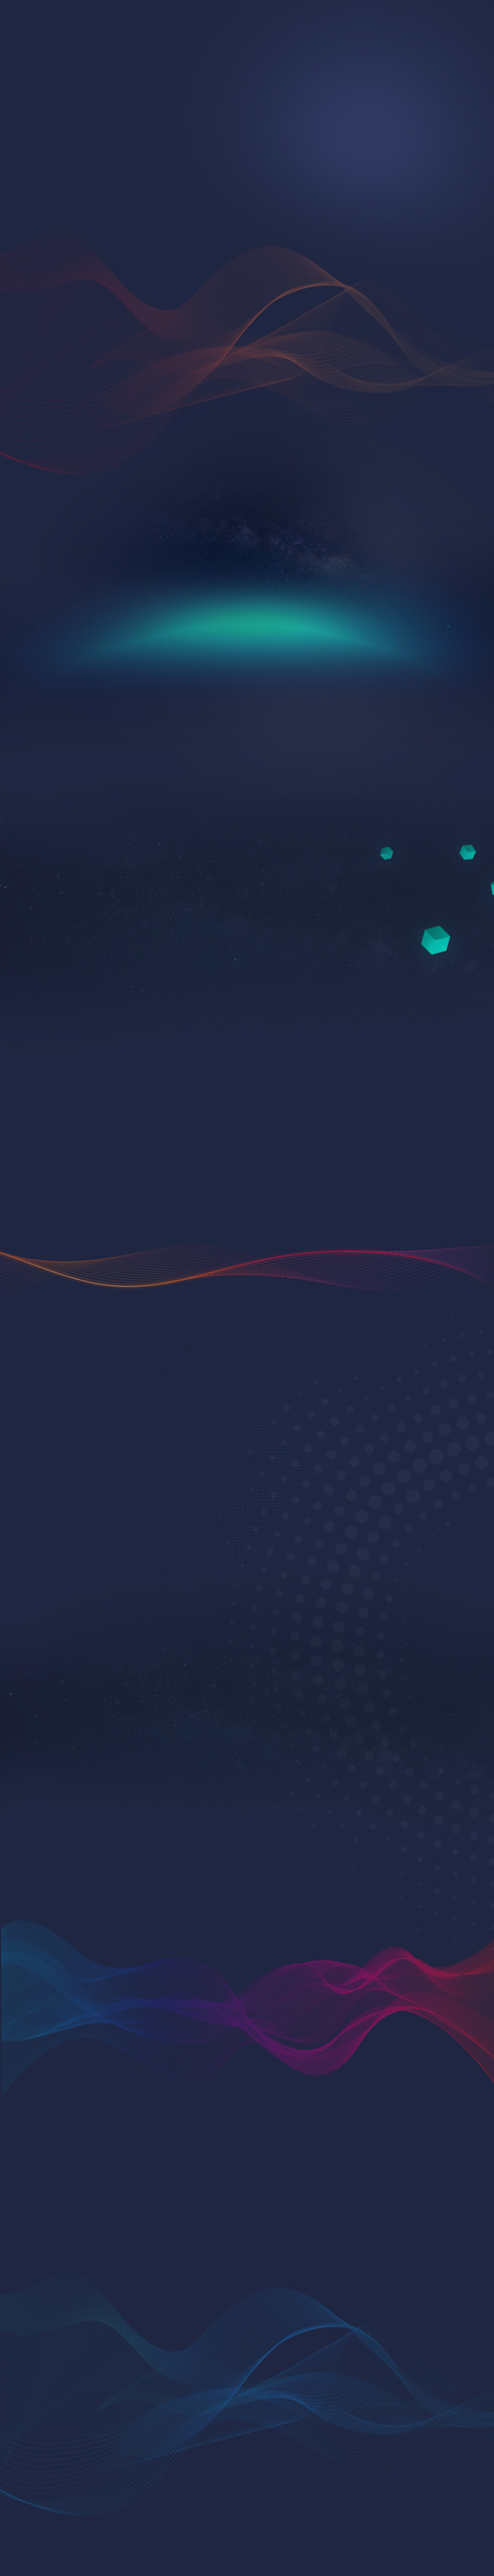
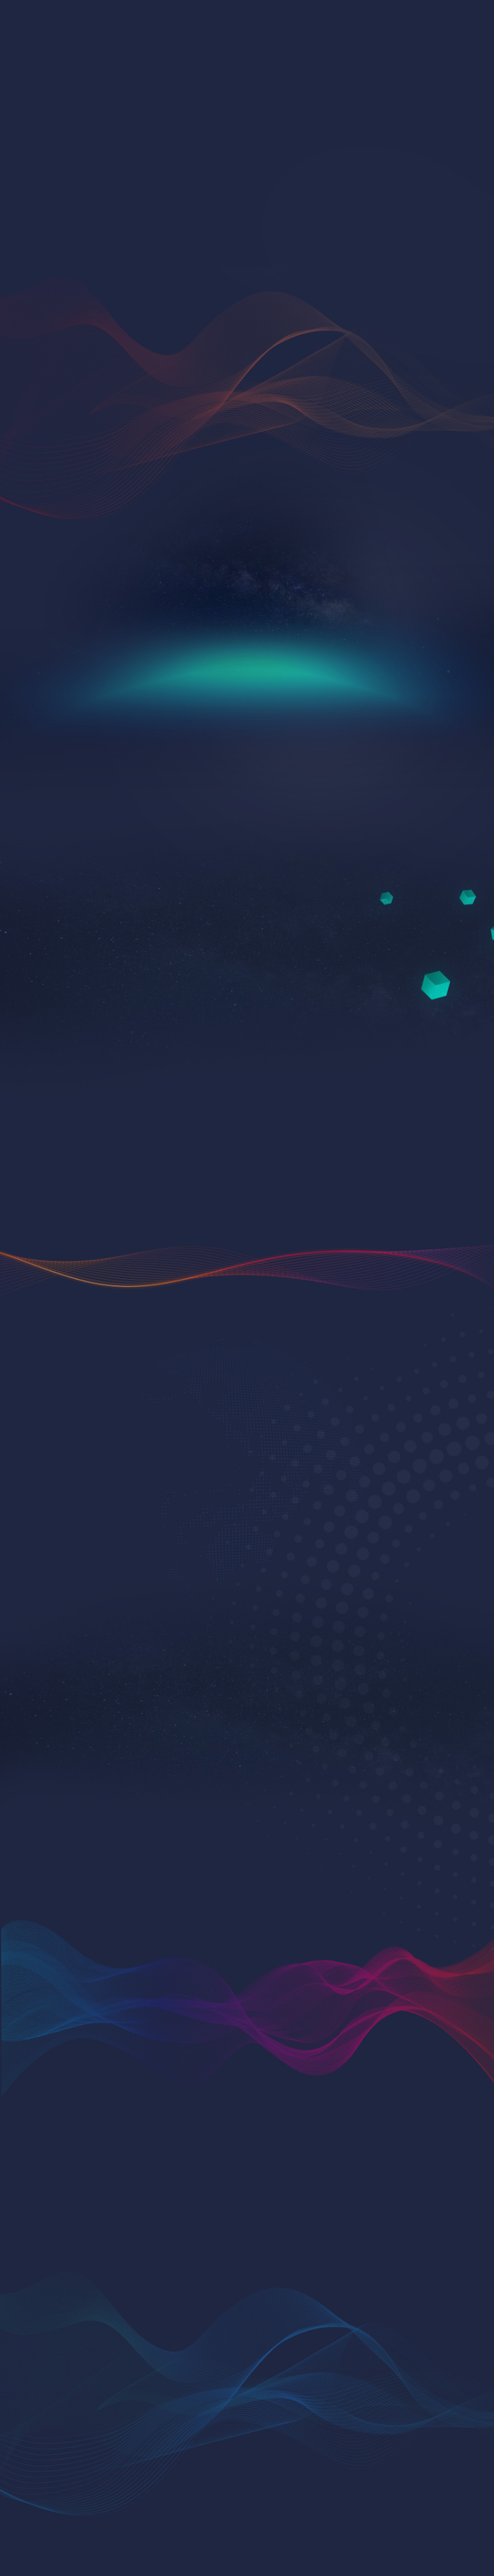
update background image, convert scss for landing-hero section

diff --git a/assets/css/style.css b/assets/css/style.css
@@ -17,96 +17,6 @@ body {
 .scroll-margin-top {
   scroll-margin-top: 150px;
 }
-/* Hero */
-.bg-hero-image {
-  position: absolute;
-  top: 0;
-  left: 0;
-  width: 100%;
-  height: 100%;
-  overflow: hidden;
-  z-index: 1;
-}
-
-.bg-hero-image img {
-  width: 100%;
-  height: 100%;
-  object-fit: cover;
-}
-
-.bg-hero-video {
-  position: absolute;
-  top: 0;
-  left: 0;
-  width: 100%;
-  height: 100%;
-  overflow: hidden;
-  z-index: 1;
-}
-
-.bg-hero-video video {
-  min-width: 100%;
-  min-height: 100%;
-  position: absolute;
-  top: 50%;
-  left: 50%;
-  transform: translate(-50%, -50%);
-  object-fit: cover;
-}
-
-.video-container:after {
-  content: "";
-  z-index: 2;
-  height: 100%;
-  width: 100%;
-  top: 0;
-  left: 0;
-  background: rgba(0, 0, 0, 0.5);
-  position: absolute;
-}
-.hero {
-  position: relative;
-  display: flex;
-  flex-direction: column;
-  z-index: 10;
-  align-items: center;
-  flex: 1;
-  justify-content: center;
-}
-.hero-logo {
-  position: absolute;
-  top: 0;
-  left: 0;
-  height: 100%;
-  width: 100%;
-  z-index: 5;
-  display: flex;
-  flex: 1;
-  flex-direction: column;
-  justify-content: center;
-  align-items: center;
-}
-.hero img {
-  width: 280px;
-  height: 280px;
-}
-.hero .hero-title {
-  text-align: center;
-}
-
-.hero .hero-description {
-  text-align: justify;
-}
-.hero .hero-content {
-  display: flex;
-  flex-direction: column;
-  justify-content: center;
-  align-content: center;
-  background-color: rgba(37, 45, 75, 0.7);
-  padding: 20px;
-  max-width: 640px;
-}
-/* Road Map*/
 
 
 /* Services */
@@ -130,29 +40,11 @@ body {
 .scroll-margin-top {
   scroll-margin-top: 50px;
 }
-@media screen and (max-height: 568px) {
-  .hero .hero-content .hero-description {
-    display: none;
-  }
-  .hero-content {
-    margin-top: 350px;
-  }
-}
 
-@media screen and (min-height: 569px) and (max-height: 680px) {
-  .hero-content {
-    margin-top: 450px;
-  }
-  .hero-content h1 {
-    font-size: 30px;
-  }
-  .hero-content .hero-description {
-    font-size: 14px;
-  }
-}
+
 
 @media screen and (min-height: 680px) {
-  .hero-content {
+  /* .hero-content {
     margin-top: 600px;
     margin-bottom: 20px;
   }
@@ -162,13 +54,9 @@ body {
   }
   .hero-content .hero-description {
     font-size: 15px;
-  }
+  } */
 }
 @media screen and (min-width: 320px) {
-  .hero-logo img {
-    width: 150px;
-    height: 150px;
-  }
 
   .landing-page-hero {
     /* margin-top: 100px; */
@@ -193,20 +81,15 @@ body {
   .scroll-margin-top {
     scroll-margin-top: 10px;
   }
-
-  .road p {
-    text-align: justify;
-  }
-
 }
 @media screen and (min-width: 640px) {
-  .hero-content h1 {
+  /* .hero-content h1 {
     margin-bottom: 30px;
     font-size: 45px;
   }
   .hero-content .hero-description {
     font-size: 16px;
-  }
+  } */
   .scroll-margin-top {
     scroll-margin-top: 50px;
   }

diff --git a/styles/sections/_hero.scss b/styles/sections/_hero.scss
@@ -1,0 +1,126 @@
+#hero {
+    position: relative;
+    display: flex;
+    flex-direction: column;
+    z-index: 10;
+    align-items: center;
+    flex: 1;
+    justify-content: center;
+
+    .hero {
+        &-title {
+            text-align: center;
+            font-weight: normal;
+
+            @include mobile-only {
+                font-size: 30px;
+            }
+        }
+
+        &-content {
+            position: absolute;
+            top: 50vh;
+            display: flex;
+            flex-direction: column;
+            justify-content: center;
+            align-content: center;
+            background-color: rgba(37, 45, 75, 0.7);
+            padding: 20px;
+            max-width: 640px;
+            margin-top: 200px;
+
+            @include mobile-only {
+                max-width: 100%;
+                margin-top: 90px;
+            }
+        }
+
+        &-description {
+            text-align: justify;
+
+            @include mobile-only {
+                font-size: 15px;
+            }
+        }
+
+        &-logo {
+            position: absolute;
+            top: 0;
+            left: 0;
+            height: 100%;
+            width: 100%;
+            z-index: 5;
+            display: flex;
+            flex: 1;
+            flex-direction: column;
+            justify-content: center;
+            align-items: center;
+
+            img {
+                width: 200px;
+                height: 200px;
+
+                @include mobile-only {
+                    width: 150px;
+                    height: 150px;
+                }
+            }
+        }
+
+        &-button {
+            display: flex;
+            flex-direction: row;
+            flex-wrap: wrap;
+        }
+
+    }
+}
+
+.bg-hero {
+    &-image {
+        position: absolute;
+        top: 0;
+        left: 0;
+        width: 100%;
+        height: 100%;
+        overflow: hidden;
+        z-index: 1;
+
+        img {
+            width: 100%;
+            height: 100%;
+            object-fit: cover;
+        }
+    }
+
+    &-video {
+        position: absolute;
+        top: 0;
+        left: 0;
+        width: 100%;
+        height: 100%;
+        overflow: hidden;
+        z-index: 1;
+
+        video {
+            min-width: 100%;
+            min-height: 100%;
+            position: absolute;
+            top: 50%;
+            left: 50%;
+            transform: translate(-50%, -50%);
+            object-fit: cover;
+        }
+
+        &:after {
+            content: "";
+            z-index: 2;
+            height: 100%;
+            width: 100%;
+            top: 0;
+            left: 0;
+            background: rgba(37, 45, 75, 0.2);
+            position: absolute;
+        }
+    }
+}

diff --git a/components/sections/landing-page-hero.tsx b/components/sections/landing-page-hero.tsx
@@ -22,7 +22,7 @@ const LandingPageHero = ({ data }) => {
   return (
     <div className="relative z-2 min-h-screen flex-col flex">
       {background}
-      <section className="container hero">
+      <section id="hero" className="container">
         <div className="hero-logo">
           <Image img={data.image} data-aos="fade" />
         </div>
@@ -41,7 +41,7 @@ const LandingPageHero = ({ data }) => {
           </Text>
 
           {/* Buttons row */}
-          <div className="flex flex-row flex-wrap">
+          <div className="hero-button">
             {data.actions.map((button: any) => (
               <Button
                 className="mr-2 mb-2"

diff --git a/styles/sections/_road.scss b/styles/sections/_road.scss
@@ -160,11 +160,11 @@
         padding: 0;
 
         @include mobile-portrait {
-            text-align: justify;
+            text-align: left;
         }
 
         @include mobile-landscape {
-            text-align: justify;
+            text-align: left;
         }
     }
 }

diff --git a/styles/main.scss b/styles/main.scss
@@ -1,5 +1,14 @@
 @import "vars";
 @import "mixin";
+@import "sections/hero";
 @import "sections/advisor";
 @import "sections/team";
 @import "sections/road";
+
+body{
+    h2 {
+        @include mobile-only {
+            font-size: 30px !important;
+        }
+    }
+}

diff --git a/styles/sections/_advisor.scss b/styles/sections/_advisor.scss
@@ -1,5 +1,5 @@
 section[id^="advisor-"]{
-    margin-top: 80;
+    margin-top: 80px;
     scroll-margin-top: 150px;
     @include not-tablet {
         margin-top: 160px;

diff --git a/styles/sections/_team.scss b/styles/sections/_team.scss
@@ -1,5 +1,5 @@
 section[id^="team-"]{
-    margin-top: 80;
+    margin-top: 80px;
     scroll-margin-top: 150px;
     @include not-tablet {
         margin-top: 160px;
